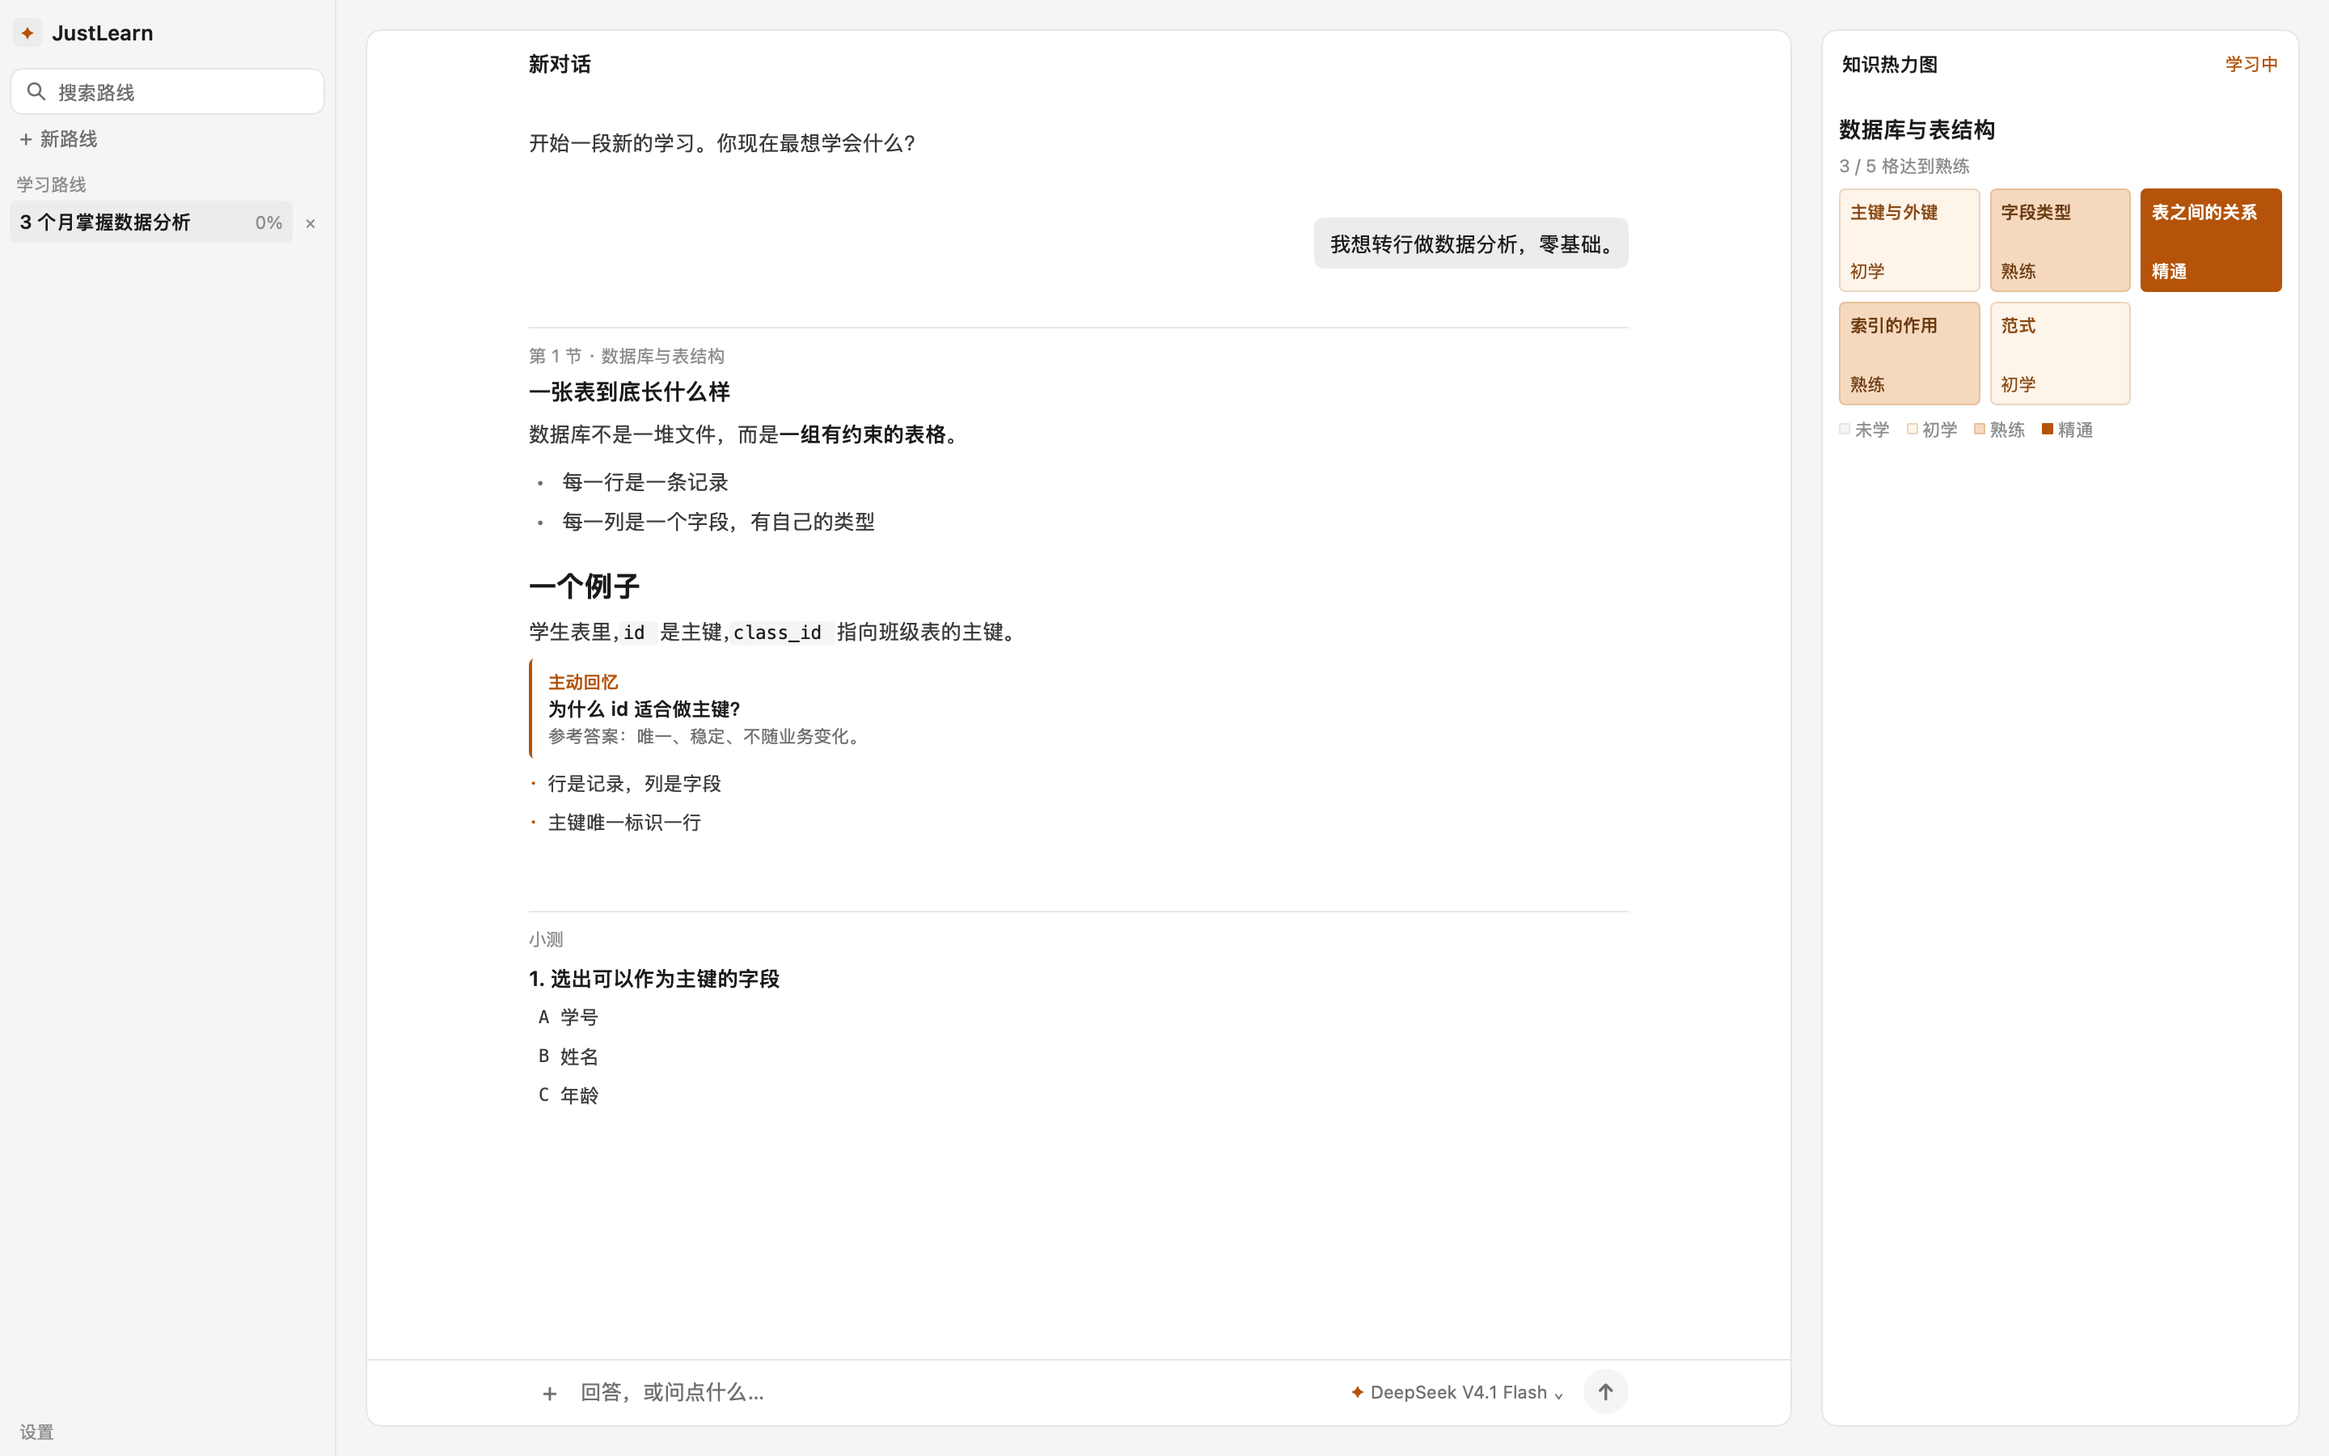
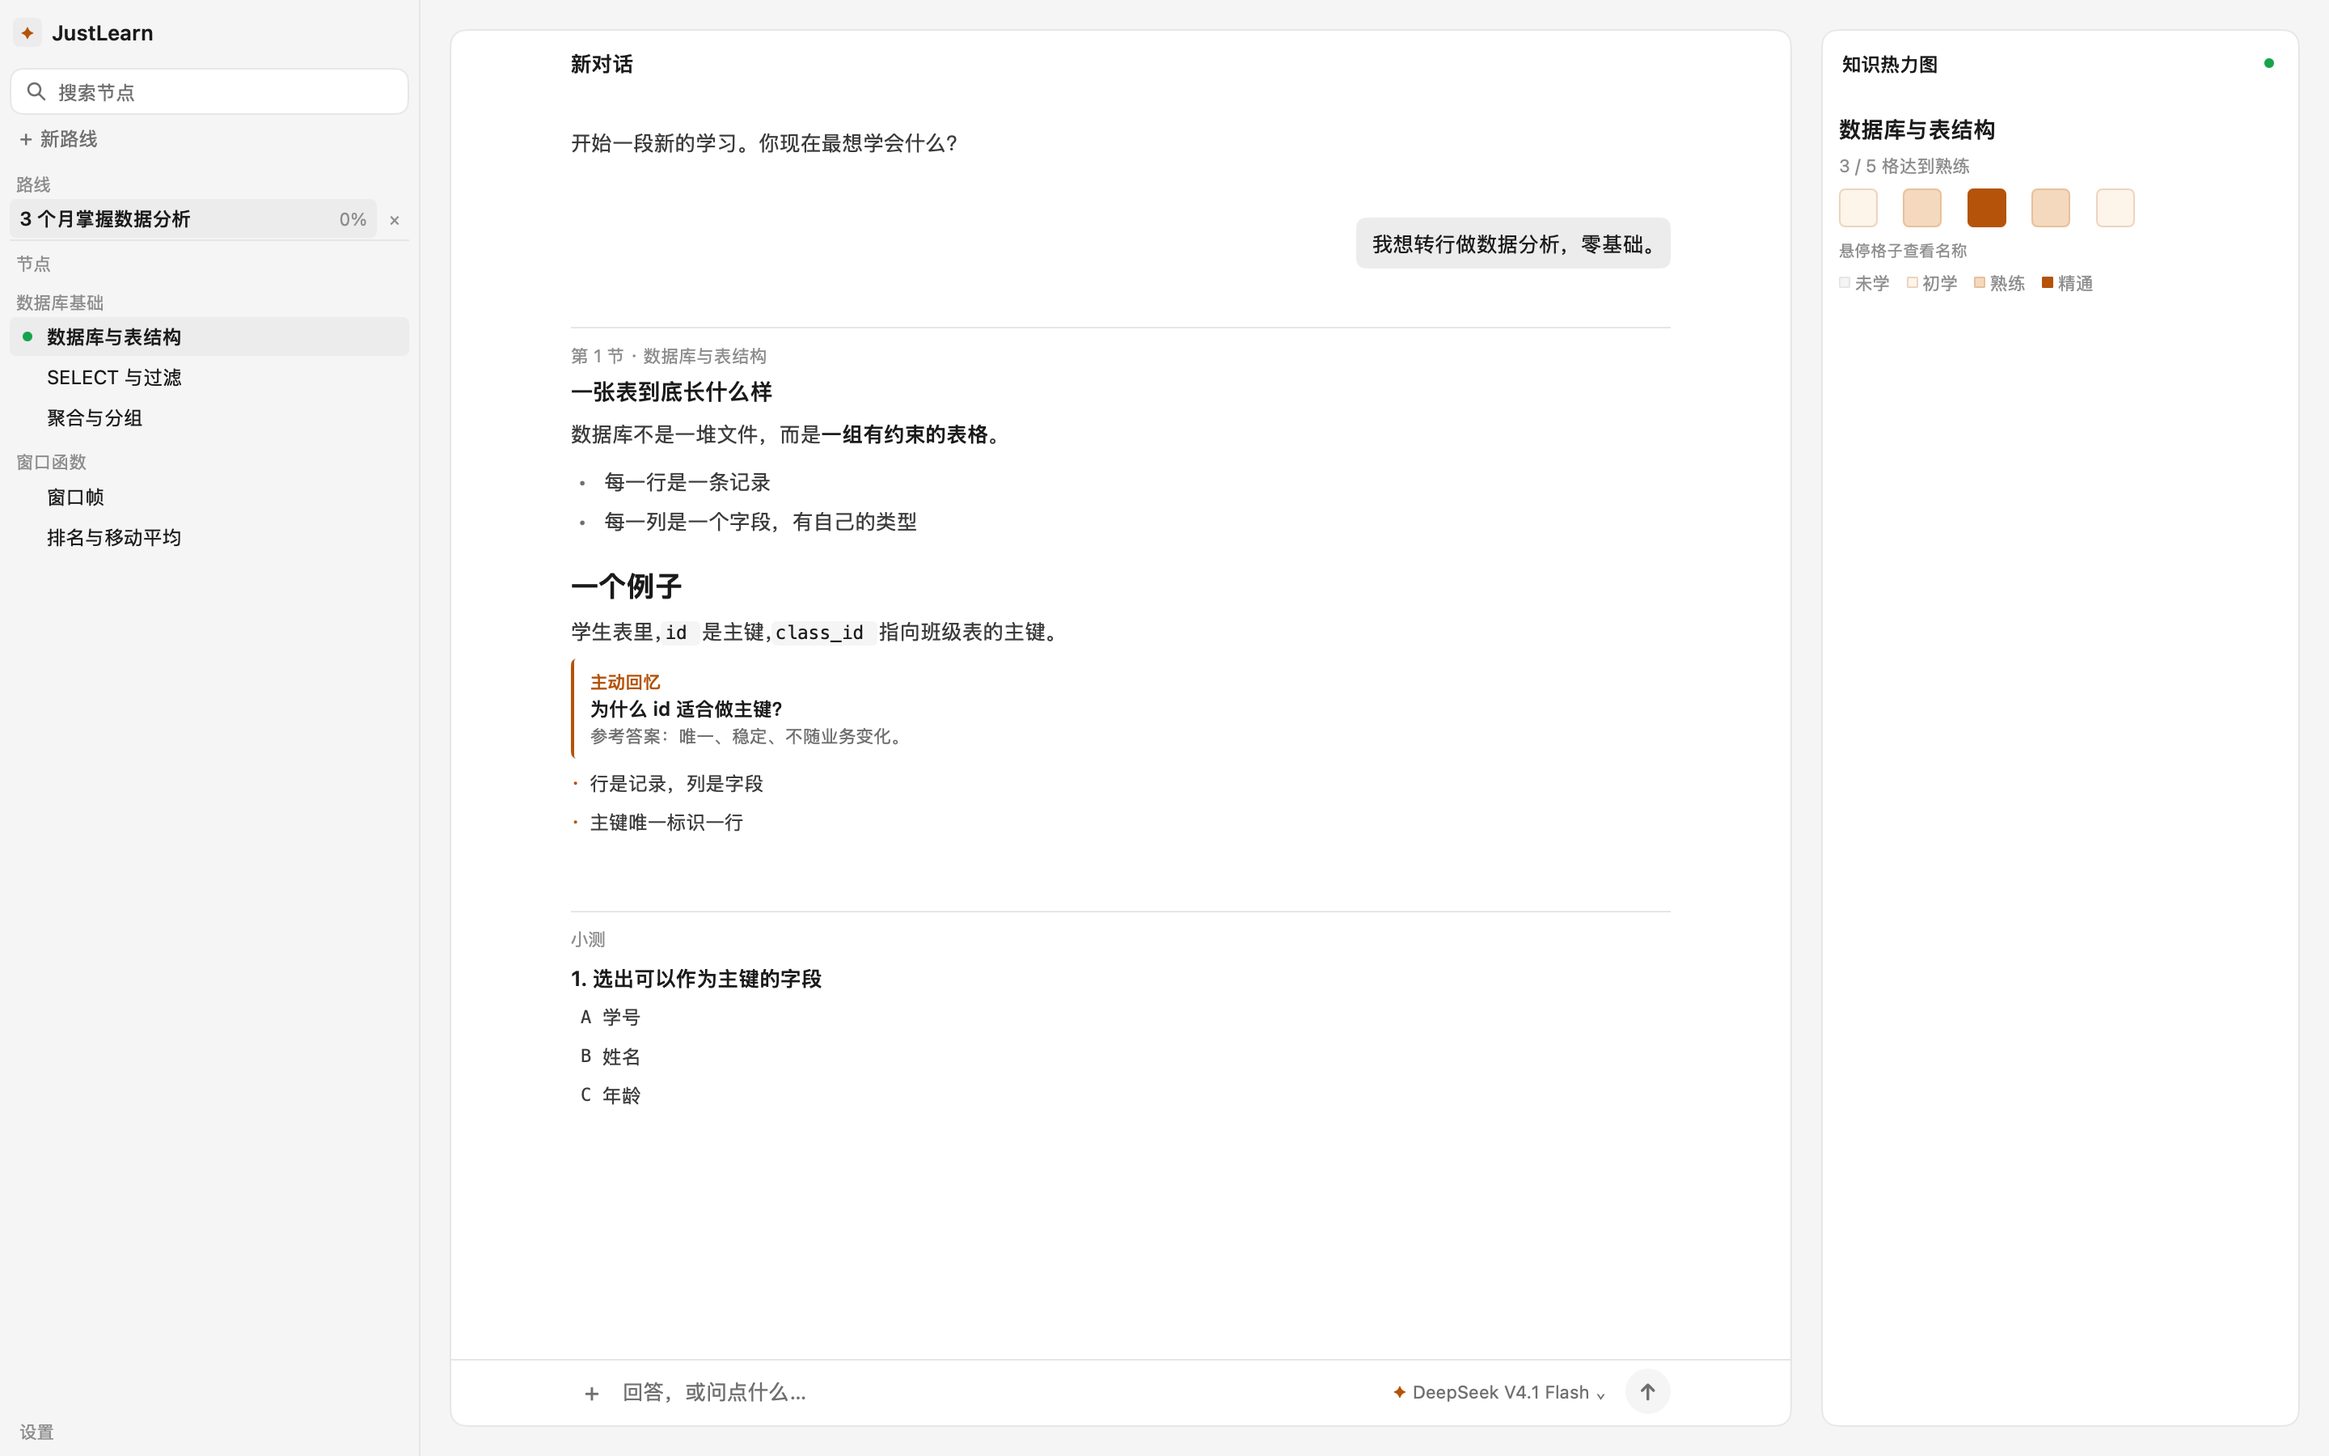
Show the full route in the sidebar and compact node status

diff --git a/desktop/sidebar.go b/desktop/sidebar.go
@@ -4,9 +4,8 @@ import "github.com/egoist/mygo/ui"
 
 func (a *app) sidebar(c *ui.Context, t *ui.Theme) {
 	p := paletteFor(t.Dark)
-	ui.Column(c).Width(208).FillHeight().Background(p.sidebar).
+	ui.Column(c).Width(260).FillHeight().Background(p.sidebar).
 		BorderWidth(0, 1, 0, 0).BorderColor(p.navLine).Children(func() {
-		// Brand sits in the window's title band, next to the traffic lights.
 		bar := c.TitleBar()
 		ui.Row(c).Height(max(bar.Height, 40)).Padding(0, bar.Right+8, 0, bar.Left+8).
 			Gap(6).AlignItems(ui.Center).DragWindow().Children(func() {
@@ -16,12 +15,10 @@ func (a *app) sidebar(c *ui.Context, t *ui.Theme) {
 			ui.Text(c, "JustLearn").FontSize(13).FontWeight(600).TextColor(p.sidebarText)
 		})
 
-		// Search routes
 		ui.Column(c).Padding(2, 6, 2, 6).Children(func() {
-			ui.SearchField(c, &a.search).FillWidth().Placeholder("搜索路线")
+			ui.SearchField(c, &a.search).FillWidth().Placeholder("搜索节点")
 		})
 
-		// New route
 		ui.Column(c).PaddingX(6).Children(func() {
 			btn := ui.ButtonBase(c).FillWidth().Height(24).Radius(radiusBadge).
 				PaddingX(6).Justify(ui.Start).Children(func() {
@@ -38,14 +35,12 @@ func (a *app) sidebar(c *ui.Context, t *ui.Theme) {
 			}
 		})
 
-		// Routes
-		ui.Text(c, "学习路线").FontSize(fsCaption).TextColor(p.faint).
-			Padding(10, 10, 2, 10)
 		ui.Scroll(c).Fill().Children(func() {
-			ui.Column(c).FillWidth().PaddingX(6).PaddingY(2).Gap(1).Children(func() {
+			ui.Column(c).FillWidth().Padding(6, 6, 4, 6).Gap(1).Children(func() {
+				ui.Text(c, "路线").FontSize(fsCaption).TextColor(p.faint).Padding(4, 4, 2, 4)
 				routes := a.visibleRoutes()
 				if len(routes) == 0 {
-					ui.Text(c, "还没有路线").FontSize(fsCaption).TextColor(p.faint).Padding(6, 4)
+					ui.Text(c, "还没有路线").FontSize(fsCaption).TextColor(p.faint).Padding(4, 4)
 				}
 				for _, goal := range routes {
 					g := goal
@@ -56,7 +51,7 @@ func (a *app) sidebar(c *ui.Context, t *ui.Theme) {
 					}
 					wrap := ui.Row(c).FillWidth().Gap(2).AlignItems(ui.Center)
 					wrap.Children(func() {
-						row := ui.ButtonBase(c.Key("route:" + g.ID)).Grow(1).Height(26).Radius(radiusBadge).
+						row := ui.ButtonBase(c.Key("route:" + g.ID)).Grow(1).Height(24).Radius(radiusBadge).
 							PaddingX(6).Children(func() {
 							ui.Row(c).FillWidth().AlignItems(ui.Center).Children(func() {
 								ui.Text(c, g.Title).FontSize(fsUI).FontWeight(weight).MaxLines(1).
@@ -86,10 +81,43 @@ func (a *app) sidebar(c *ui.Context, t *ui.Theme) {
 						}
 					})
 				}
+
+				hairline(c, p.hairline)
+				ui.Text(c, "节点").FontSize(fsCaption).TextColor(p.faint).Padding(6, 4, 2, 4)
+
+				nodes := a.visibleNodes()
+				if len(nodes) == 0 {
+					ui.Text(c, "没有匹配的节点").FontSize(fsCaption).TextColor(p.faint).Padding(4, 4)
+				}
+				lastStage := ""
+				for _, n := range nodes {
+					node := n
+					if node.StageTitle != "" && node.StageTitle != lastStage {
+						lastStage = node.StageTitle
+						ui.Text(c, lastStage).FontSize(fsCaption).TextColor(p.faint).
+							Padding(8, 4, 2, 4)
+					}
+					selected := node.ID == a.selectedNode().ID
+					row := ui.ButtonBase(c.Key("node:" + node.ID)).FillWidth().Height(24).
+						Radius(radiusBadge).PaddingX(5).Children(func() {
+						ui.Row(c).FillWidth().Gap(6).AlignItems(ui.Center).Children(func() {
+							a.nodeIndicator(c, t, node.Status)
+							ui.Text(c, node.Title).FontSize(fsUI).FontWeight(weightFor(selected)).
+								TextColor(p.sidebarText).MaxLines(1)
+						})
+					})
+					if selected {
+						row.Background(p.navActive)
+					} else if row.Hovered() {
+						row.Background(p.navHover)
+					}
+					if row.Clicked() {
+						a.routeNodeID = node.ID
+					}
+				}
 			})
 		})
 
-		// Footer
 		ui.Row(c).Padding(4, 8, 6, 8).Gap(8).AlignItems(ui.Center).Children(func() {
 			settings := ui.ButtonBase(c).Padding(3, 4).Radius(radiusBadge).Children(func() {
 				ui.Text(c, "设置").FontSize(fsCaption).TextColor(p.faint)
@@ -102,4 +130,26 @@ func (a *app) sidebar(c *ui.Context, t *ui.Theme) {
 			}
 		})
 	})
+}
+
+func weightFor(selected bool) int {
+	if selected {
+		return 600
+	}
+	return 400
+}
+
+func (a *app) nodeIndicator(c *ui.Context, t *ui.Theme, status string) {
+	p := paletteFor(t.Dark)
+	slot := ui.Box(c).Size(12, 12).Center()
+	switch status {
+	case "done":
+		slot.Children(func() {
+			ui.Text(c, "✓").FontSize(11).FontWeight(600).TextColor(p.green)
+		})
+	case "current":
+		slot.Children(func() {
+			ui.Box(c).Size(6, 6).Radius(3).Background(p.green)
+		})
+	}
 }

diff --git a/desktop/route.go b/desktop/route.go
@@ -22,19 +22,19 @@ func (a *app) routePanel(c *ui.Context, t *ui.Theme) {
 				Gap(6).AlignItems(ui.Center).Children(func() {
 				ui.Text(c, "知识热力图").FontSize(fsUI).FontWeight(600).TextColor(p.text)
 				ui.Spacer(c)
-				if a.current.ID != "" {
-					ui.Text(c, statusLabel(a.current.Status)).FontSize(fsCaption).
-						TextColor(statusTint(a.current.Status, p))
+				if node := a.selectedNode(); node.ID != "" {
+					a.nodeIndicator(c, t, node.Status)
 				}
 			})
 			ui.Scroll(c).Fill().TrackScroll(&a.routeScroll).Children(func() {
 				ui.Column(c).FillWidth().Padding(12, 10).Gap(10).Children(func() {
-					if a.current.ID == "" {
+					node := a.selectedNode()
+					if node.ID == "" {
 						ui.Text(c, "当前没有节点。在聊天里开始学习后，这里会显示本节的热力图。").
 							FontSize(fsCaption).TextColor(p.faint).LineHeight(1.55)
 						return
 					}
-					a.heatmapSection(c, t, a.current)
+					a.heatmapSection(c, t, node)
 				})
 			})
 		})
@@ -58,21 +58,15 @@ func (a *app) heatmapSection(c *ui.Context, t *ui.Theme, node store.Node) {
 		}
 		ui.Textf(c, "%d / %d 格达到%s", lit, len(node.Cells), masteryLabels[node.Threshold]).
 			FontSize(fsCaption).TextColor(p.faint)
-		ui.Grid(c).FillWidth().Columns(3).Gap(6).Children(func() {
+		ui.Grid(c).FillWidth().Columns(7).Gap(4).Children(func() {
 			for _, skill := range node.Cells {
 				cell := skill
-				bg, border, fg := heatStyle(cell.Mastery, t.Dark)
-				ui.Box(c).Height(64).Radius(radiusBadge).Background(bg).BorderWidth(1).BorderColor(border).
-					Padding(6).Children(func() {
-					ui.Column(c).FillWidth().FillHeight().Gap(2).Children(func() {
-						ui.Text(c, cell.Title).FontSize(fsCaption).FontWeight(600).TextColor(fg).
-							MaxLines(2).LineHeight(1.3)
-						ui.Spacer(c)
-						ui.Text(c, masteryLabels[cell.Mastery]).FontSize(fsCaption).TextColor(fg)
-					})
-				})
+				bg, border, _ := heatStyle(cell.Mastery, t.Dark)
+				ui.Box(c).Size(24, 24).Radius(4).Background(bg).BorderWidth(1).BorderColor(border).
+					Tooltip(cell.Title + " · " + masteryLabels[cell.Mastery])
 			}
 		})
+		ui.Text(c, "悬停格子查看名称").FontSize(10).TextColor(p.faint)
 		ui.Row(c).Gap(10).AlignItems(ui.Center).Children(func() {
 			for level := 0; level < 4; level++ {
 				bg, border, _ := heatStyle(level, t.Dark)
@@ -83,22 +77,4 @@ func (a *app) heatmapSection(c *ui.Context, t *ui.Theme, node store.Node) {
 			}
 		})
 	})
-}
-
-func statusLabel(status string) string {
-	switch status {
-	case "done":
-		return "掌握"
-	case "current":
-		return "学习中"
-	default:
-		return "待学"
-	}
-}
-
-func statusTint(status string, p palette) ui.Color {
-	if status == "current" {
-		return p.blue
-	}
-	return p.faint
 }

diff --git a/desktop/theme.go b/desktop/theme.go
@@ -44,6 +44,7 @@ type palette struct {
 	recallBg       ui.Color
 	blueLine       ui.Color
 	rust           ui.Color
+	green          ui.Color
 	rustSoft       ui.Color
 	shadow         ui.Color
 	navActive      ui.Color
@@ -80,6 +81,7 @@ func paletteFor(dark bool) palette {
 			recallBg:       ui.Hex("#2A2118"),
 			blueLine:       ui.Hex("#5A3E1B"),
 			rust:           ui.Hex("#F97066"),
+			green:          ui.Hex("#4ADE80"),
 			rustSoft:       ui.Hex("#3A1D1A"),
 			shadow:         ui.RGBA(0, 0, 0, 0.45),
 			navActive:      ui.RGBA(255, 255, 255, 0.07),
@@ -113,6 +115,7 @@ func paletteFor(dark bool) palette {
 		blueSoft:       ui.Hex("#FDF4EA"),
 		blueLine:       ui.Hex("#EAD5BF"),
 		rust:           ui.Hex("#B42318"),
+		green:          ui.Hex("#16A34A"),
 		rustSoft:       ui.Hex("#FEF3F2"),
 		shadow:         ui.RGBA(17, 17, 17, 0.05),
 		navActive:      ui.Hex("#ECECEC"),

diff --git a/desktop/app.go b/desktop/app.go
@@ -343,6 +343,20 @@ func (a *app) engineConfig() agent.Config {
 	}
 }
 
+func (a *app) visibleNodes() []store.Node {
+	q := strings.ToLower(strings.TrimSpace(a.search))
+	if q == "" {
+		return a.nodes
+	}
+	out := make([]store.Node, 0, len(a.nodes))
+	for _, node := range a.nodes {
+		if strings.Contains(strings.ToLower(node.Title), q) {
+			out = append(out, node)
+		}
+	}
+	return out
+}
+
 func (a *app) visibleRoutes() []store.Goal {
 	q := strings.ToLower(strings.TrimSpace(a.search))
 	if q == "" {

diff --git a/DESIGN.md b/DESIGN.md
@@ -41,22 +41,23 @@
 形状与布局：
 
 - 主面板、路线面板：白底、1px `hairline` 边、圆角 10；面板之间 8px 画布间隙
-- 窗口：顶栏 40，侧栏 208，路线栏 304（面板内宽 288），消息列 680
+- 窗口：顶栏 40，侧栏 260，路线栏 304（面板内宽 288），消息列 680
 - 控件圆角 4；圆形发送钮 28；不带卡片阴影，只有浮层用单层阴影
-- 侧栏：品牌/交通灯行 → 搜索路线 → 新路线 → 路线列表 → 底部设置
+- 侧栏：品牌/交通灯行 → 搜索节点 → 新路线 → 路线列表 → 当前路线的阶段与节点 → 底部设置
 - 输入区：主面板底部平栏，只有上边线；没有悬浮胶囊、没有深色底
 
 ## 热力图
 
 - 每个节点 3–9 个格子，四档暖色阶：未学 `#F5F5F5`、初学 `#FDF4EA`、熟练 `#F5D9BF`、精通 `#B45309`
-- 格子只显示标题 + 底色；级别由下方图例解释，不加圆点计数
+- 热力图是 7 列小方块（24px），悬停显示格子名称；级别由下方图例解释
+- 节点状态：学习中 = 绿点，已掌握 = 绿色对号，未开始 = 空；不显示文字状态
 - 当前节点、学习中状态用琥珀色；错误用铁锈红
 
 ## 组件
 
-- **侧栏**：208px 浅灰；顶部 `SearchField` 过滤路线；路线行显示标题与进度，右侧常驻 `×` 删除（确认浮层）；不再展示会话。
+- **侧栏**：260px 浅灰；顶部 `SearchField` 过滤节点；路线行显示标题与进度、右侧 `×` 删除；下方展示当前路线的全部阶段和节点，点击节点在右侧查看其热力图。
 - **主面板**：白色圆角；40px 顶栏（标题 + “路线”文字按钮）；消息与课程/小测是文档段落，不套卡片、不加头像。
-- **路线面板（右侧）**：白色圆角；只展示当前节点的标题、状态、阈值进度、热力图和图例；不放路线切换和节点列表。
+- **路线面板（右侧）**：白色圆角；展示当前/选中节点的标题、阈值进度、小方块热力图与图例；不放路线切换和节点列表。
 - **输入区**：平栏；左 `+` 导入 .txt/.md；中间输入；右侧模型选择 `✦ DeepSeek V4.1 Flash ⌄` 与 28px 圆形发送/停止按钮。
 - **搜索**：会话标题不区分大小写包含匹配；清空恢复全部。
 - **删除**：路线删除会连带节点、格子、相关会话和消息；删除当前路线后新建一条空路线。
@@ -77,7 +78,8 @@
 
 - 2026-11-05：改成截图的简洁风格：中性灰画布、白色圆角面板、浅灰侧栏、琥珀色信号（用户确认）
 - 2026-11-05：输入区从胶囊改为面板底部平栏；去掉深色块（用户确认）
-- 2026-11-05：左侧只展示学习路线，右侧只展示当前节点热力图；不再展示会话（用户确认）
+- 2026-11-05：左侧展示完整学习路线（路线 + 全部节点），右侧展示当前/选中节点的热力图；不再展示会话（用户确认）
+- 2026-11-05：节点状态用绿点/对号/留空，去掉“学习中/待学”文字（用户确认）
 - 2026-11-05：路线右侧常驻 `×` 删除（用户确认）
 - 2026-11-05：教学一次只问一个问题，短讲解 + 检查问题；课时卡可选、限长；小测一次一题（用户确认）
 

diff --git a/README.md b/README.md
@@ -12,7 +12,7 @@ JustLearn 是一个原生桌面的 AI 私人教师：在聊天里学、在聊天
 - **知识热力图**：每个节点 3–9 个知识格子，按 0–3 级掌握度着色；所有格子达到阈值后前进到下一节。
 - **要点卡可选**：只有用户通过几轮问答弄懂一个侧面后，才生成一张 200–300 字的要点卡，不把整节课写成文章。
 - **小测**：一次一题，答题后行内给出正确答案与解析，并把真实回答写回热力图证据；不会一口气发整份测验。
-- **多条路线**：左侧列出所有学习路线，点击切换；右侧只展示当前节点的知识热力图。
+- **路线与节点**：左侧列出学习路线和全部节点，点击节点在右侧查看热力图；节点状态用绿点（学习中）、对号（掌握）和留空（未学）表示。
 - **搜索与管理**：侧栏搜索路线；路线右侧的 `×` 可删除（会清理节点、格子和相关消息）。
 - **路线管理**：新建、切换、删除路线；删除路线会连同节点、格子、相关会话和消息一起删除，删除前有确认。
 - **模型选择**：输入框右侧显示当前模型，菜单可切换；`/models` 可用时自动列出服务端模型。
